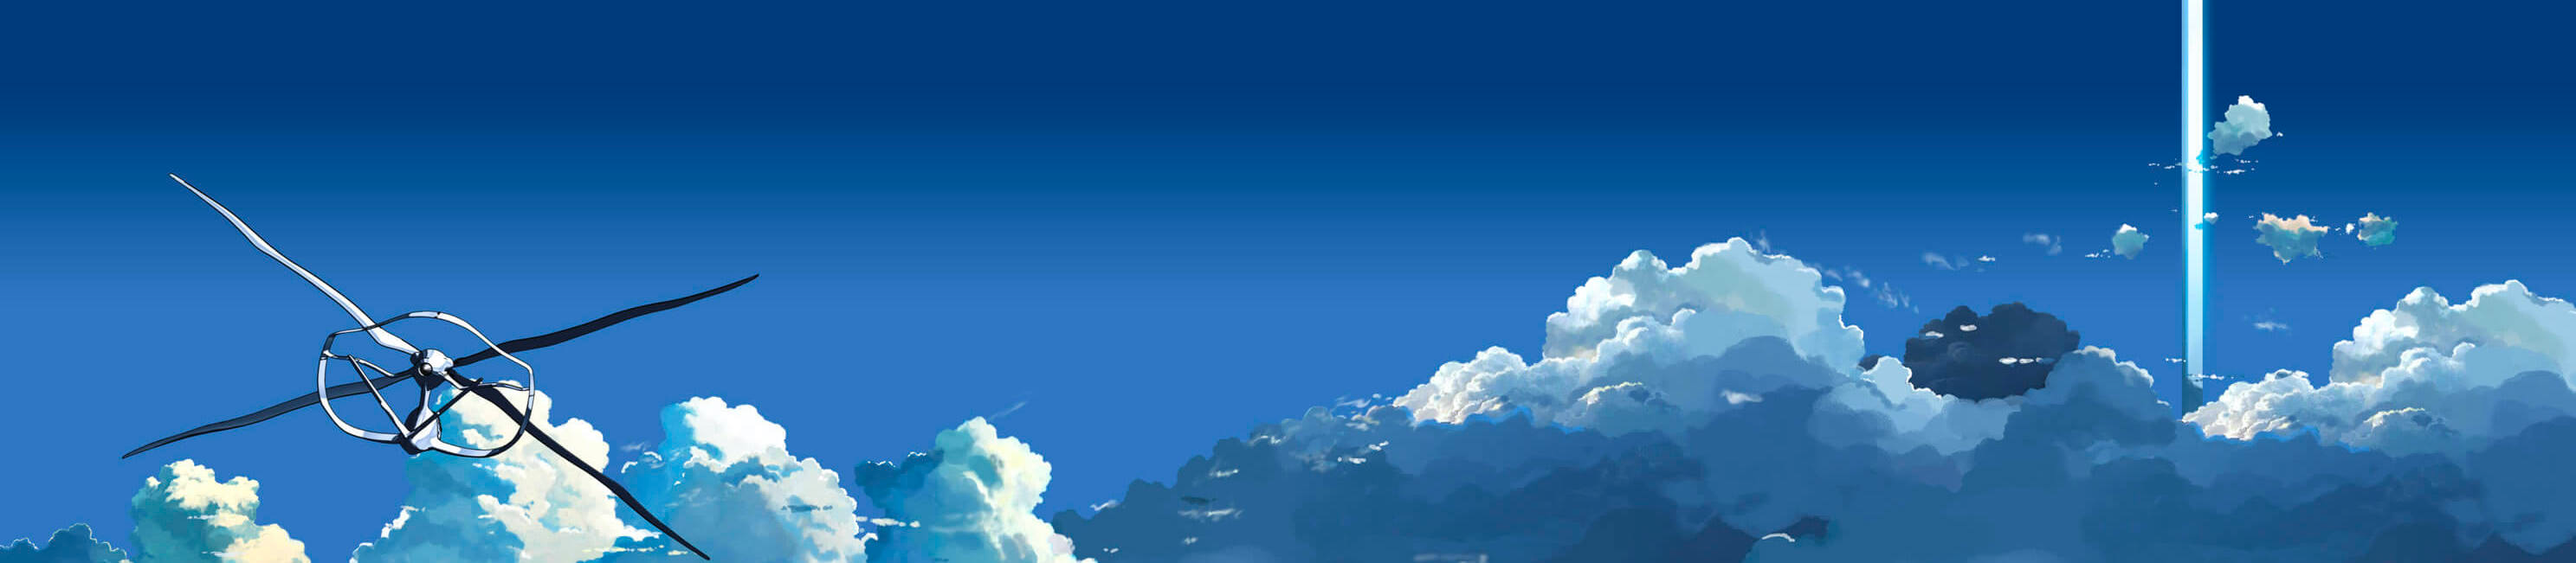
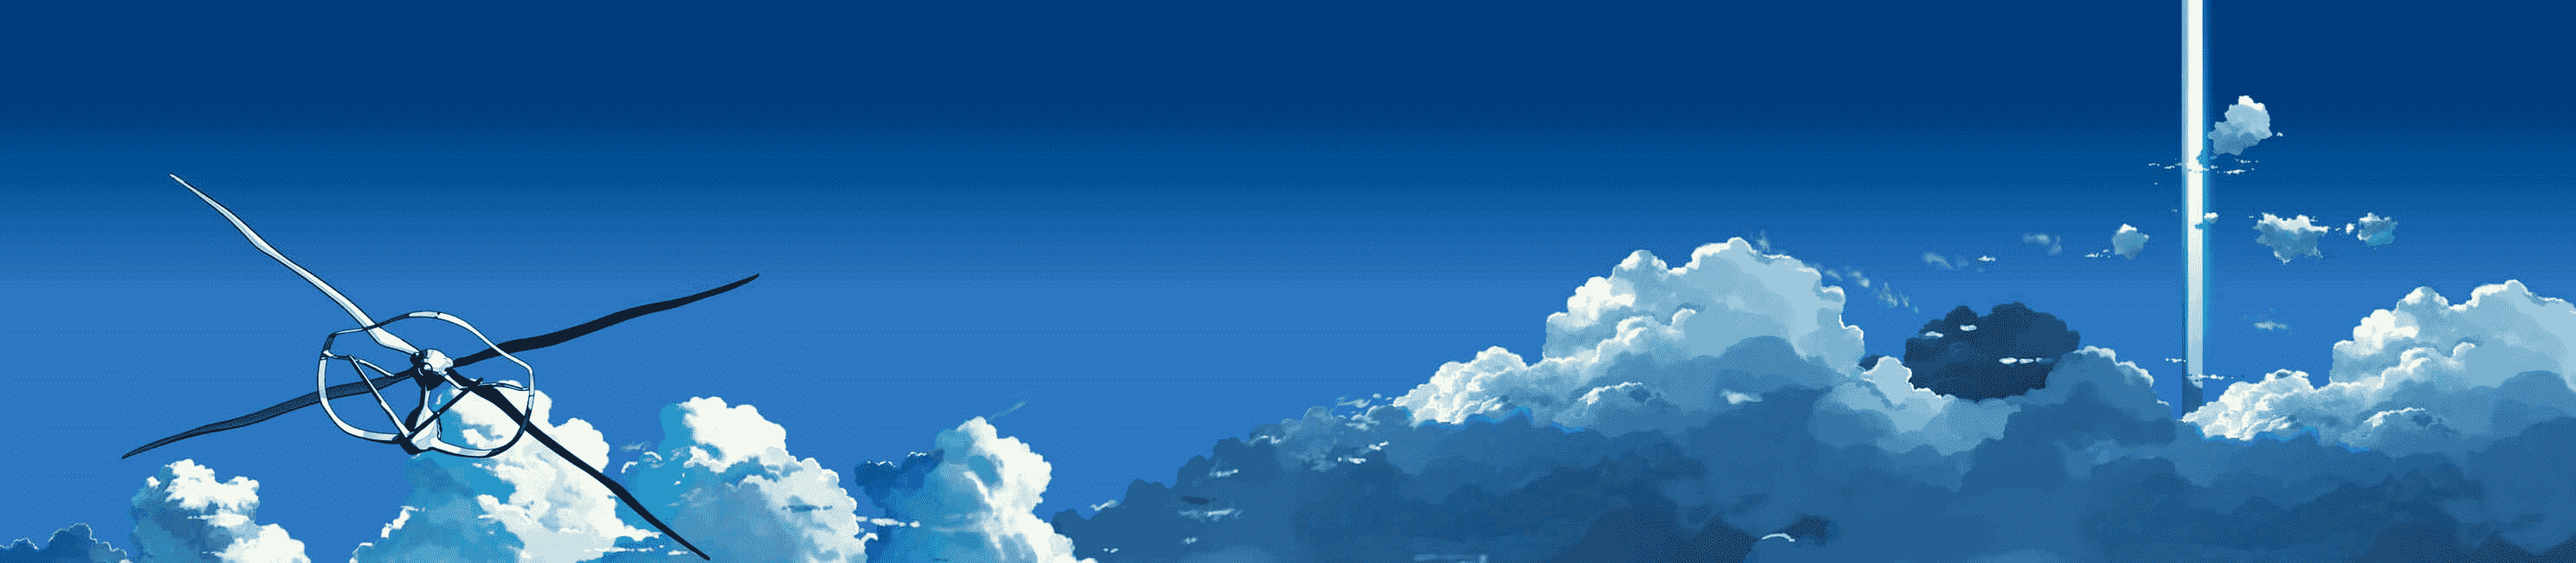
图片压缩

diff --git a/docs/posts/2022/11/Flink SQL Client 操作 Hudi 初体验.md b/docs/posts/2022/11/Flink SQL Client 操作 Hudi 初体验.md
@@ -2,7 +2,7 @@
 layout: Post  # 必须
 title: Flink SQL Client 操作 Hudi 初体验  # 博客标题（必须）
 subtitle: Flink SQL Client 操作 Hudi 初体验  # 博客副标题（可选）
-date: 2022-09-01  # 博客日期，会显示在文章头部（可选）
+date: 2022-11-24  # 博客日期，会显示在文章头部（可选）
 useHeaderImage: true  # 是否在博客中显示封面图：`image`（显示） / `text`（不显示）（可选，默认为 `text`）
 headerImage: /img/blog_cover/2022/11/Hudi_On_Flink_First_cover.jpg   # 博客封面图（必须，即使上一项选了 `text`，图片也需要在首页显示）
 headerMask: rgba(40, 57, 101, .4)  # 封面图遮罩（可选）
